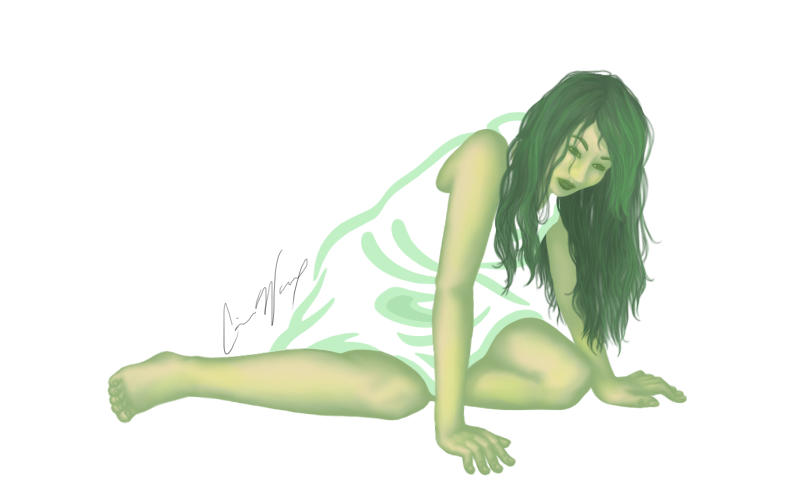
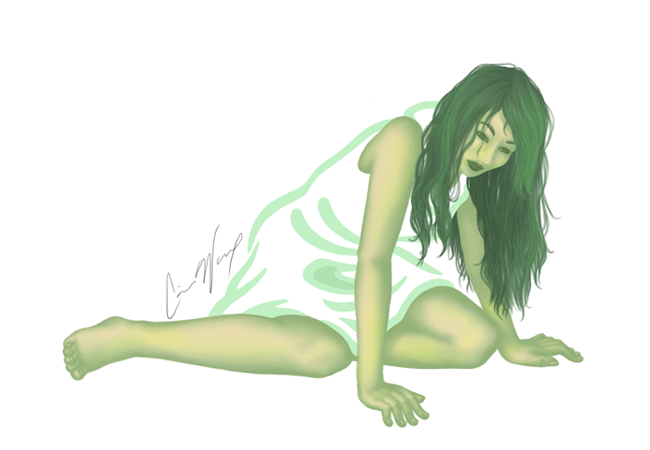
Update Cool Colors green to be the right size and image

diff --git a/_pictures/cool_colors.html b/_pictures/cool_colors.html
@@ -15,7 +15,7 @@ subtitle: "digital painting, surreal"
 <h4>Green</h4>
 <div class="image">
   <a href="../pictures/colors-green.png">
-    <img src="../pictures/colors-green.png" width="400px">
+    <img src="../pictures/colors-green.png" width="325px">
   </a>
 </div>
 
